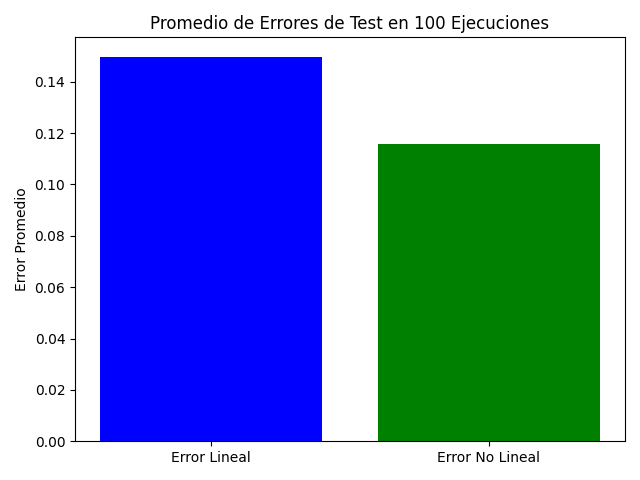
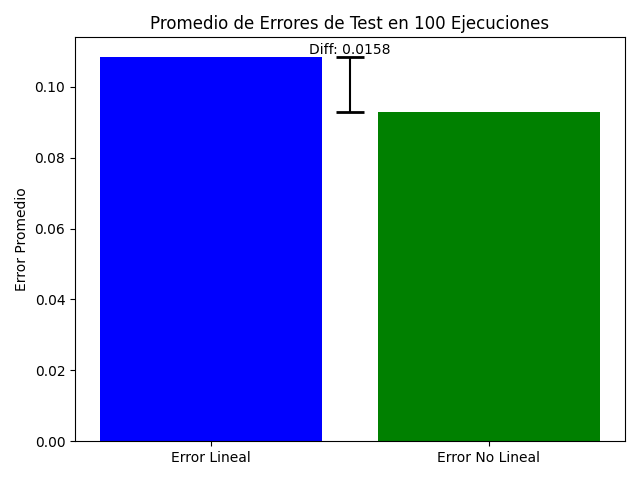
Ejer2 finished

diff --git a/exer2/generalization.py b/exer2/generalization.py
@@ -4,7 +4,7 @@ import os
 import json
 from datetime import datetime
 import sys
-
+from matplotlib import cm
 from perceptron import Perceptron
 from utils import dividir_train_test, evaluar, transformacion_no_lineal
 
@@ -55,6 +55,13 @@ def cross_validation_no_lineal(X, y, k=5, lr=0.005, epochs=100):
     desvio = np.std(test_errors)
     return promedio, desvio
 
+def evaluar_generalizacion_cross_val(X, y, repeticiones=50, lr=0.005, epochs=500):
+    errores = []
+    for _ in range(repeticiones):
+        avg, _ = cross_validation_no_lineal(X, y, k=5, lr=lr, epochs=epochs)
+        errores.append(avg)
+    return errores
+
 
 def main(save_file=False):
     data = np.loadtxt('TP3-ej2-escalado.csv', delimiter=',', skiprows=1)
@@ -62,13 +69,15 @@ def main(save_file=False):
     y = data[:, -1]
     lr_no_lineal = 0.005
     epochs = [10,20,50,100,200,500]
+    # epochs = [200,500,1000,2000,3000,5000,10000]
     resultados = []
     # test_avg, test_std = evaluar_generalizacion_no_lineal(X, y, repeticiones=100, lr=lr_no_lineal, epochs=100)
-    for epoch in epochs:
-        print(f"Evaluando epochs: {epoch}")
-        cv_avg, cv_std = cross_validation_no_lineal(X, y, k=5, lr=lr_no_lineal, epochs=epoch)
-        resultados.append((epoch, cv_avg, cv_std))
-
+    # for epoch in epochs:
+    #     print(f"Evaluando epochs: {epoch}")
+    #     cv_avg, cv_std = cross_validation_no_lineal(X, y, k=5, lr=lr_no_lineal, epochs=epoch)
+    #     resultados.append((epoch, cv_avg, cv_std))
+    
+    cv_avg, cv_std = cross_validation_no_lineal(X, y, k=5, lr=lr_no_lineal, epochs=500)
     output_data = {
         # "no_lineal_generalization_avg": round(test_avg, 6),
         # "no_lineal_generalization_std": round(test_std, 6),
@@ -76,19 +85,41 @@ def main(save_file=False):
         "no_lineal_cv_std": round(cv_std, 6)
     }
 
-    epocas = [r[0] for r in resultados]
-    promedios = [r[1] for r in resultados]
-    desvios = [r[2] for r in resultados]
+    # epocas = [r[0] for r in resultados]
+    # promedios = [r[1] for r in resultados]
+    # desvios = [r[2] for r in resultados]
 
-    # Graficar con barras de error
-    plt.figure(figsize=(8, 5))
-    plt.errorbar(epocas, promedios, yerr=desvios, fmt='o-', ecolor='red', capsize=5, markersize=6)
-    plt.title('Error de Validación Cruzada (No Lineal)')
-    plt.xlabel('Épocas')
-    plt.ylabel('Error promedio')
+
+
+
+    errores_generales = evaluar_generalizacion_cross_val(X, y, repeticiones=100, lr=lr_no_lineal, epochs=500)
+        
+    plt.figure(figsize=(12,5))
+
+        # Boxplot
+    plt.subplot(1, 2, 1)
+    plt.boxplot(errores_generales, vert=True, patch_artist=True)
+    plt.title('Distribución del Error de Validación Cruzada (500 épocas)')
+    plt.ylabel('Error')
     plt.grid(True)
+
+        # Histograma
+    plt.subplot(1, 2, 2)
+    counts, bins, patches = plt.hist(errores_generales, bins=15, edgecolor='black')
+
+    norm = plt.Normalize(bins.min(), bins.max())
+    cmap = cm.plasma
+
+    for count, bin_left, patch in zip(counts, bins, patches):
+        bin_center = bin_left + (bins[1] - bins[0]) / 2
+        color = cmap(norm(bin_center))
+        patch.set_facecolor(color)
+    plt.title('Histograma de Errores (500 épocas)')
+    plt.xlabel('Error')
+    plt.ylabel('Frecuencia')
     plt.tight_layout()
     plt.show()
+
 
     if save_file:
         timestamp = datetime.now().strftime("%Y-%m-%d-%H-%M-%S")

diff --git a/exer2/decision.py b/exer2/decision.py
@@ -25,11 +25,33 @@ if __name__ == "__main__":
     values = [avg_test_lineal, avg_test_no_lineal]
 
     # Crear las barras
-    plt.bar(labels, values, color=['blue', 'green'])
+    bars = plt.bar(labels, values, color=['blue', 'green'])
 
     # Añadir etiquetas y título
     plt.ylabel('Error Promedio')
     plt.title(f'Promedio de Errores de Test en {iterations} Ejecuciones')
+
+    # Obtener centros y alturas
+    x1 = bars[0].get_x() + bars[0].get_width() / 2
+    x2 = bars[1].get_x() + bars[1].get_width() / 2
+    y1 = bars[0].get_height()
+    y2 = bars[1].get_height()
+
+    # Elegir una posición x intermedia para la línea vertical
+    mid_x = (x1 + x2) / 2
+    ymin = min(y1, y2)
+    ymax = max(y1, y2)
+
+    # Dibujar línea vertical
+    plt.vlines(mid_x, ymin, ymax, colors='black')
+
+    tope_ancho = 0.05  # ancho de los topes
+    plt.hlines(ymin, mid_x - tope_ancho, mid_x + tope_ancho, colors='black', linewidth=2)
+    plt.hlines(ymax, mid_x - tope_ancho, mid_x + tope_ancho, colors='black', linewidth=2)
+
+    # Mostrar la diferencia en la parte superior de la línea
+    diff = abs(y2 - y1)
+    plt.text(mid_x, ymax, f'Diff: {diff:.4f}', ha='center', va='bottom', fontsize=10, color='black')
 
     # Mostrar el gráfico
     plt.tight_layout()

diff --git a/exer2/main.py b/exer2/main.py
@@ -10,7 +10,7 @@ from utils import dividir_train_test, transformacion_no_lineal, evaluar
 
 
 # definimos los lr en base a los resultados de main_lr q prueba con varios lr
-def entrenar_lineal(X, y, lr=0.01, epochs=100):
+def entrenar_lineal(X, y, lr=0.01, epochs=500):
     X_train, y_train, X_test, y_test = dividir_train_test(X, y)
     model = Perceptron(input_dim=X.shape[1], lr=lr, epochs=epochs)
     model.fit(X_train, y_train)
@@ -18,7 +18,7 @@ def entrenar_lineal(X, y, lr=0.01, epochs=100):
     test_error = evaluar(model, X_test, y_test)
     return model, train_error, test_error
 
-def entrenar_no_lineal(X, y, lr=0.005, epochs=100):
+def entrenar_no_lineal(X, y, lr=0.005, epochs=500):
     X_nl = transformacion_no_lineal(X)
     X_train, y_train, X_test, y_test = dividir_train_test(X_nl, y)
     model = Perceptron(input_dim=X_nl.shape[1], lr=lr, epochs=epochs)

diff --git a/exer2/perceptron.py b/exer2/perceptron.py
@@ -20,4 +20,4 @@ class Perceptron:
                 error = pred - target
                 self.w -= self.lr * error * xi_bias
                 errores += error**2
-            self.train_errors.append(errores / len(y))  # MSE por época
+            self.train_errors.append(errores / len(y))
